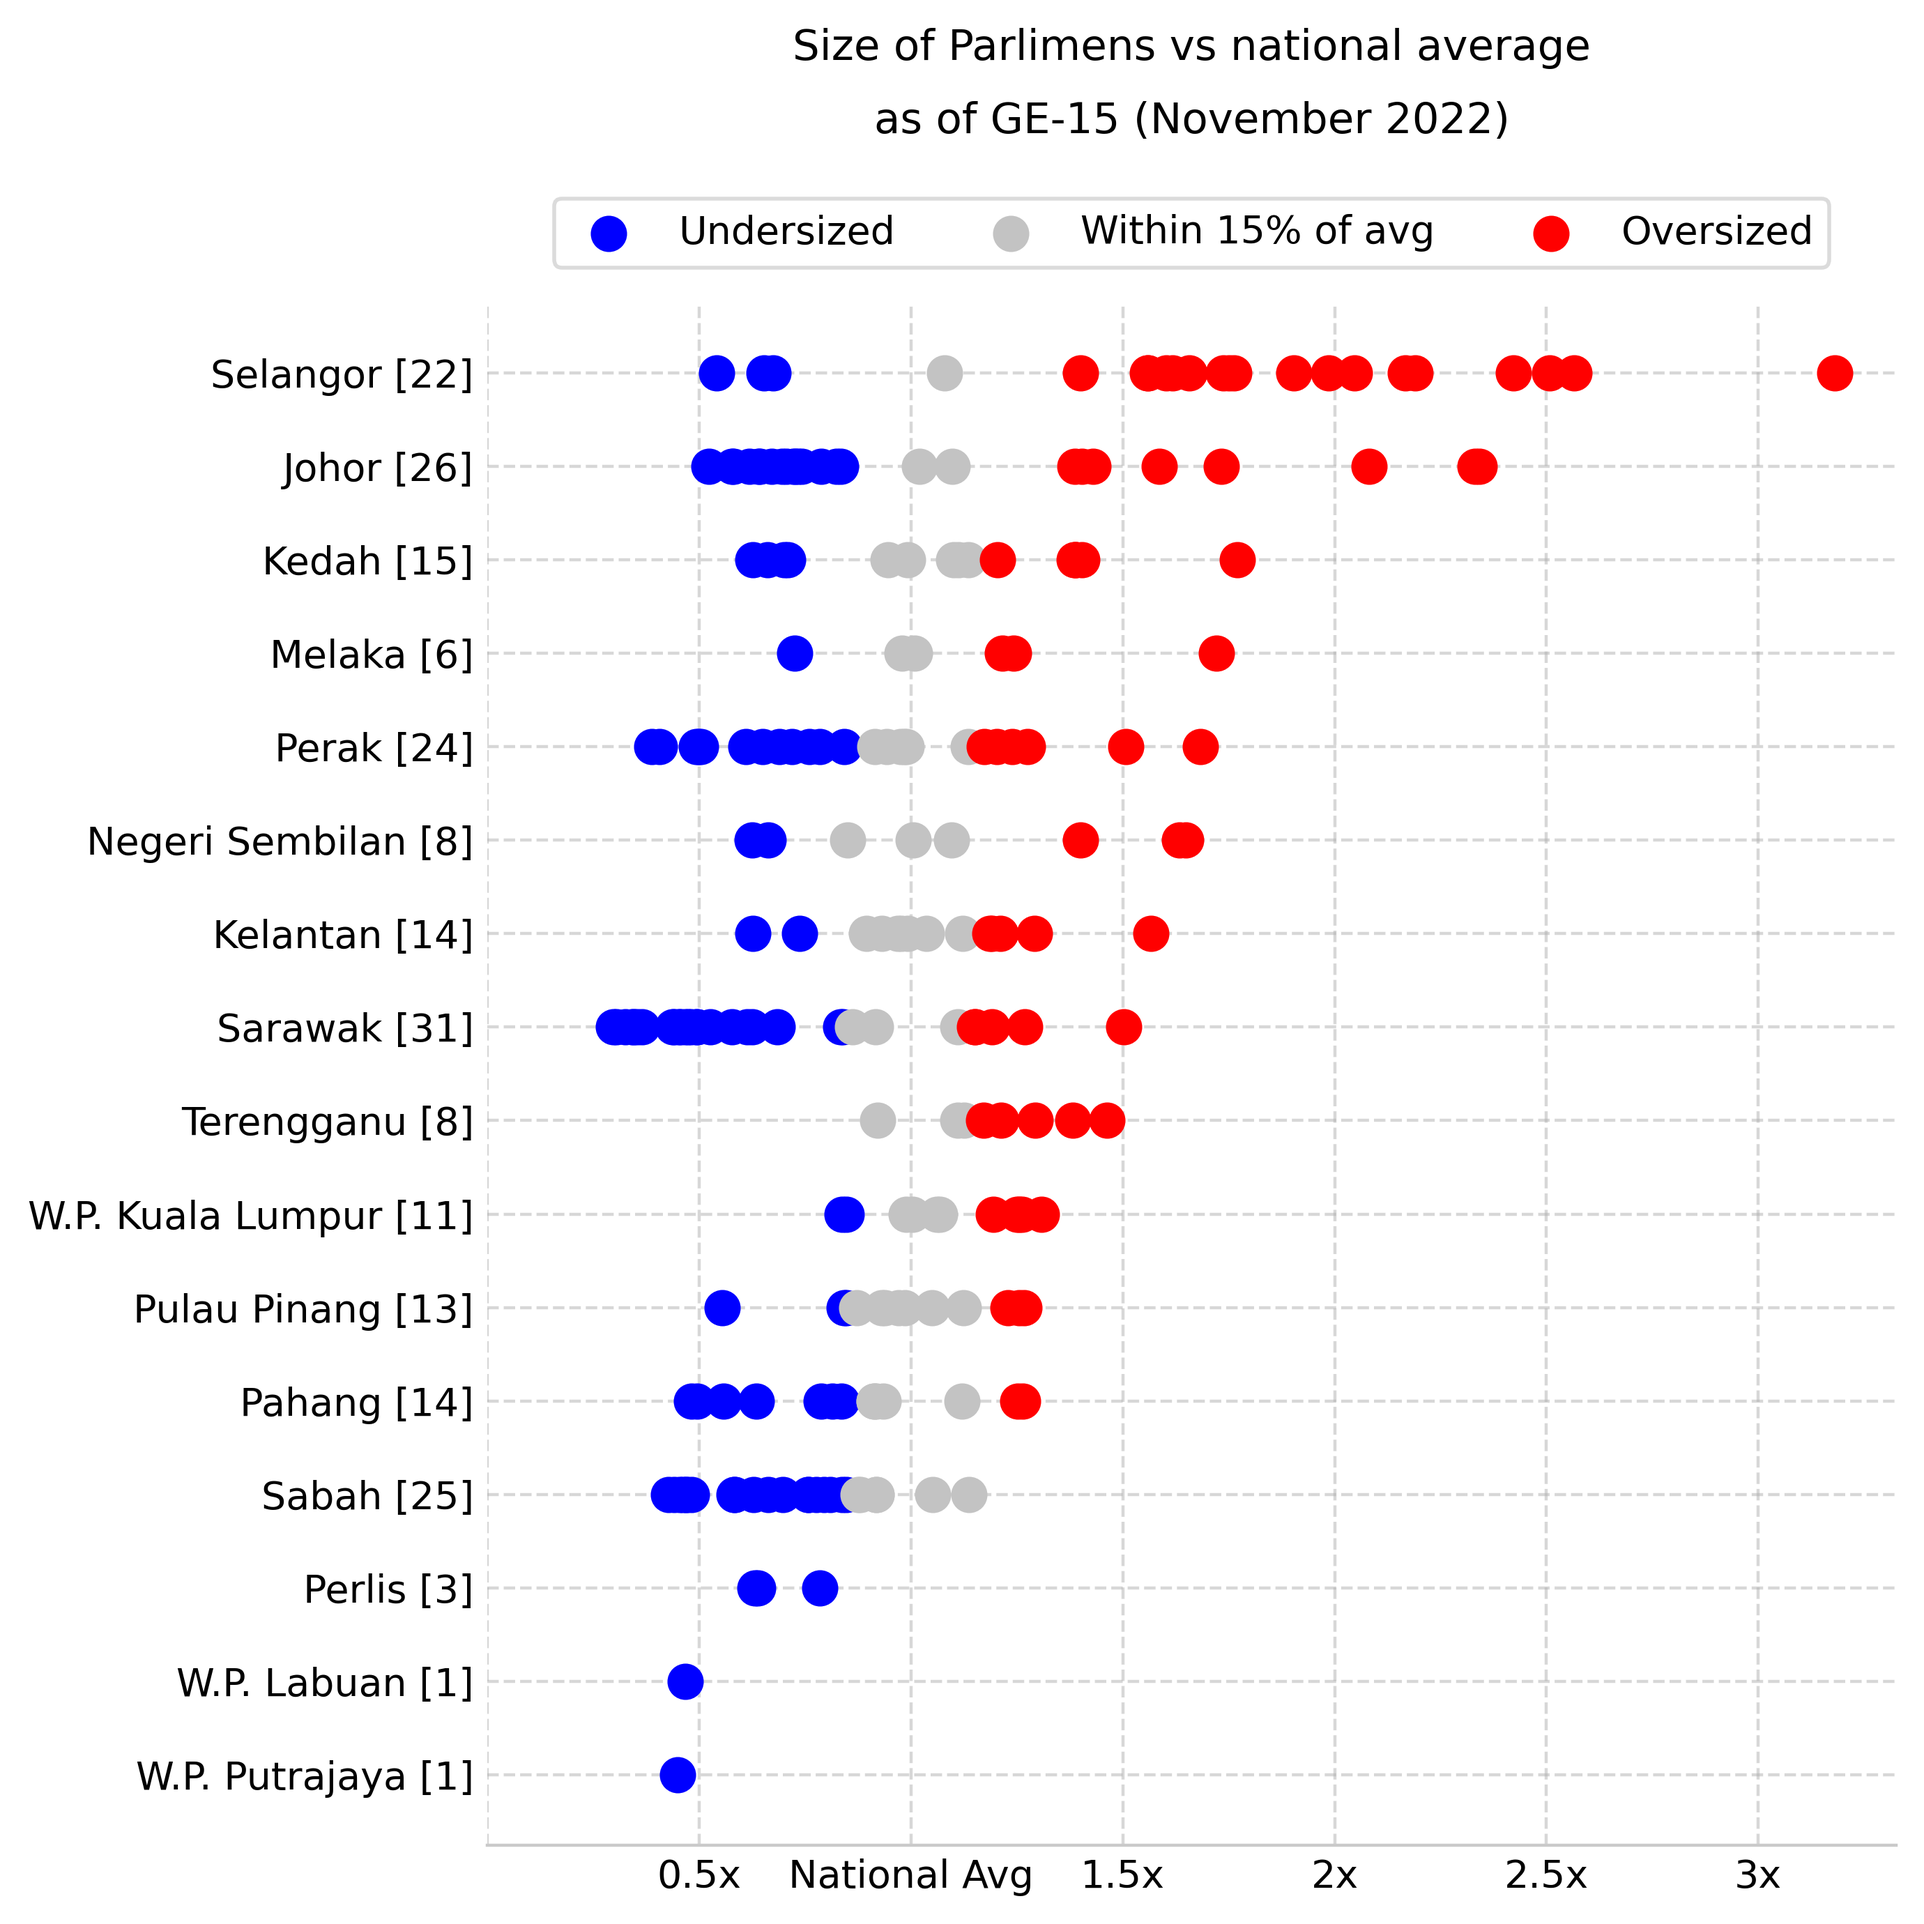
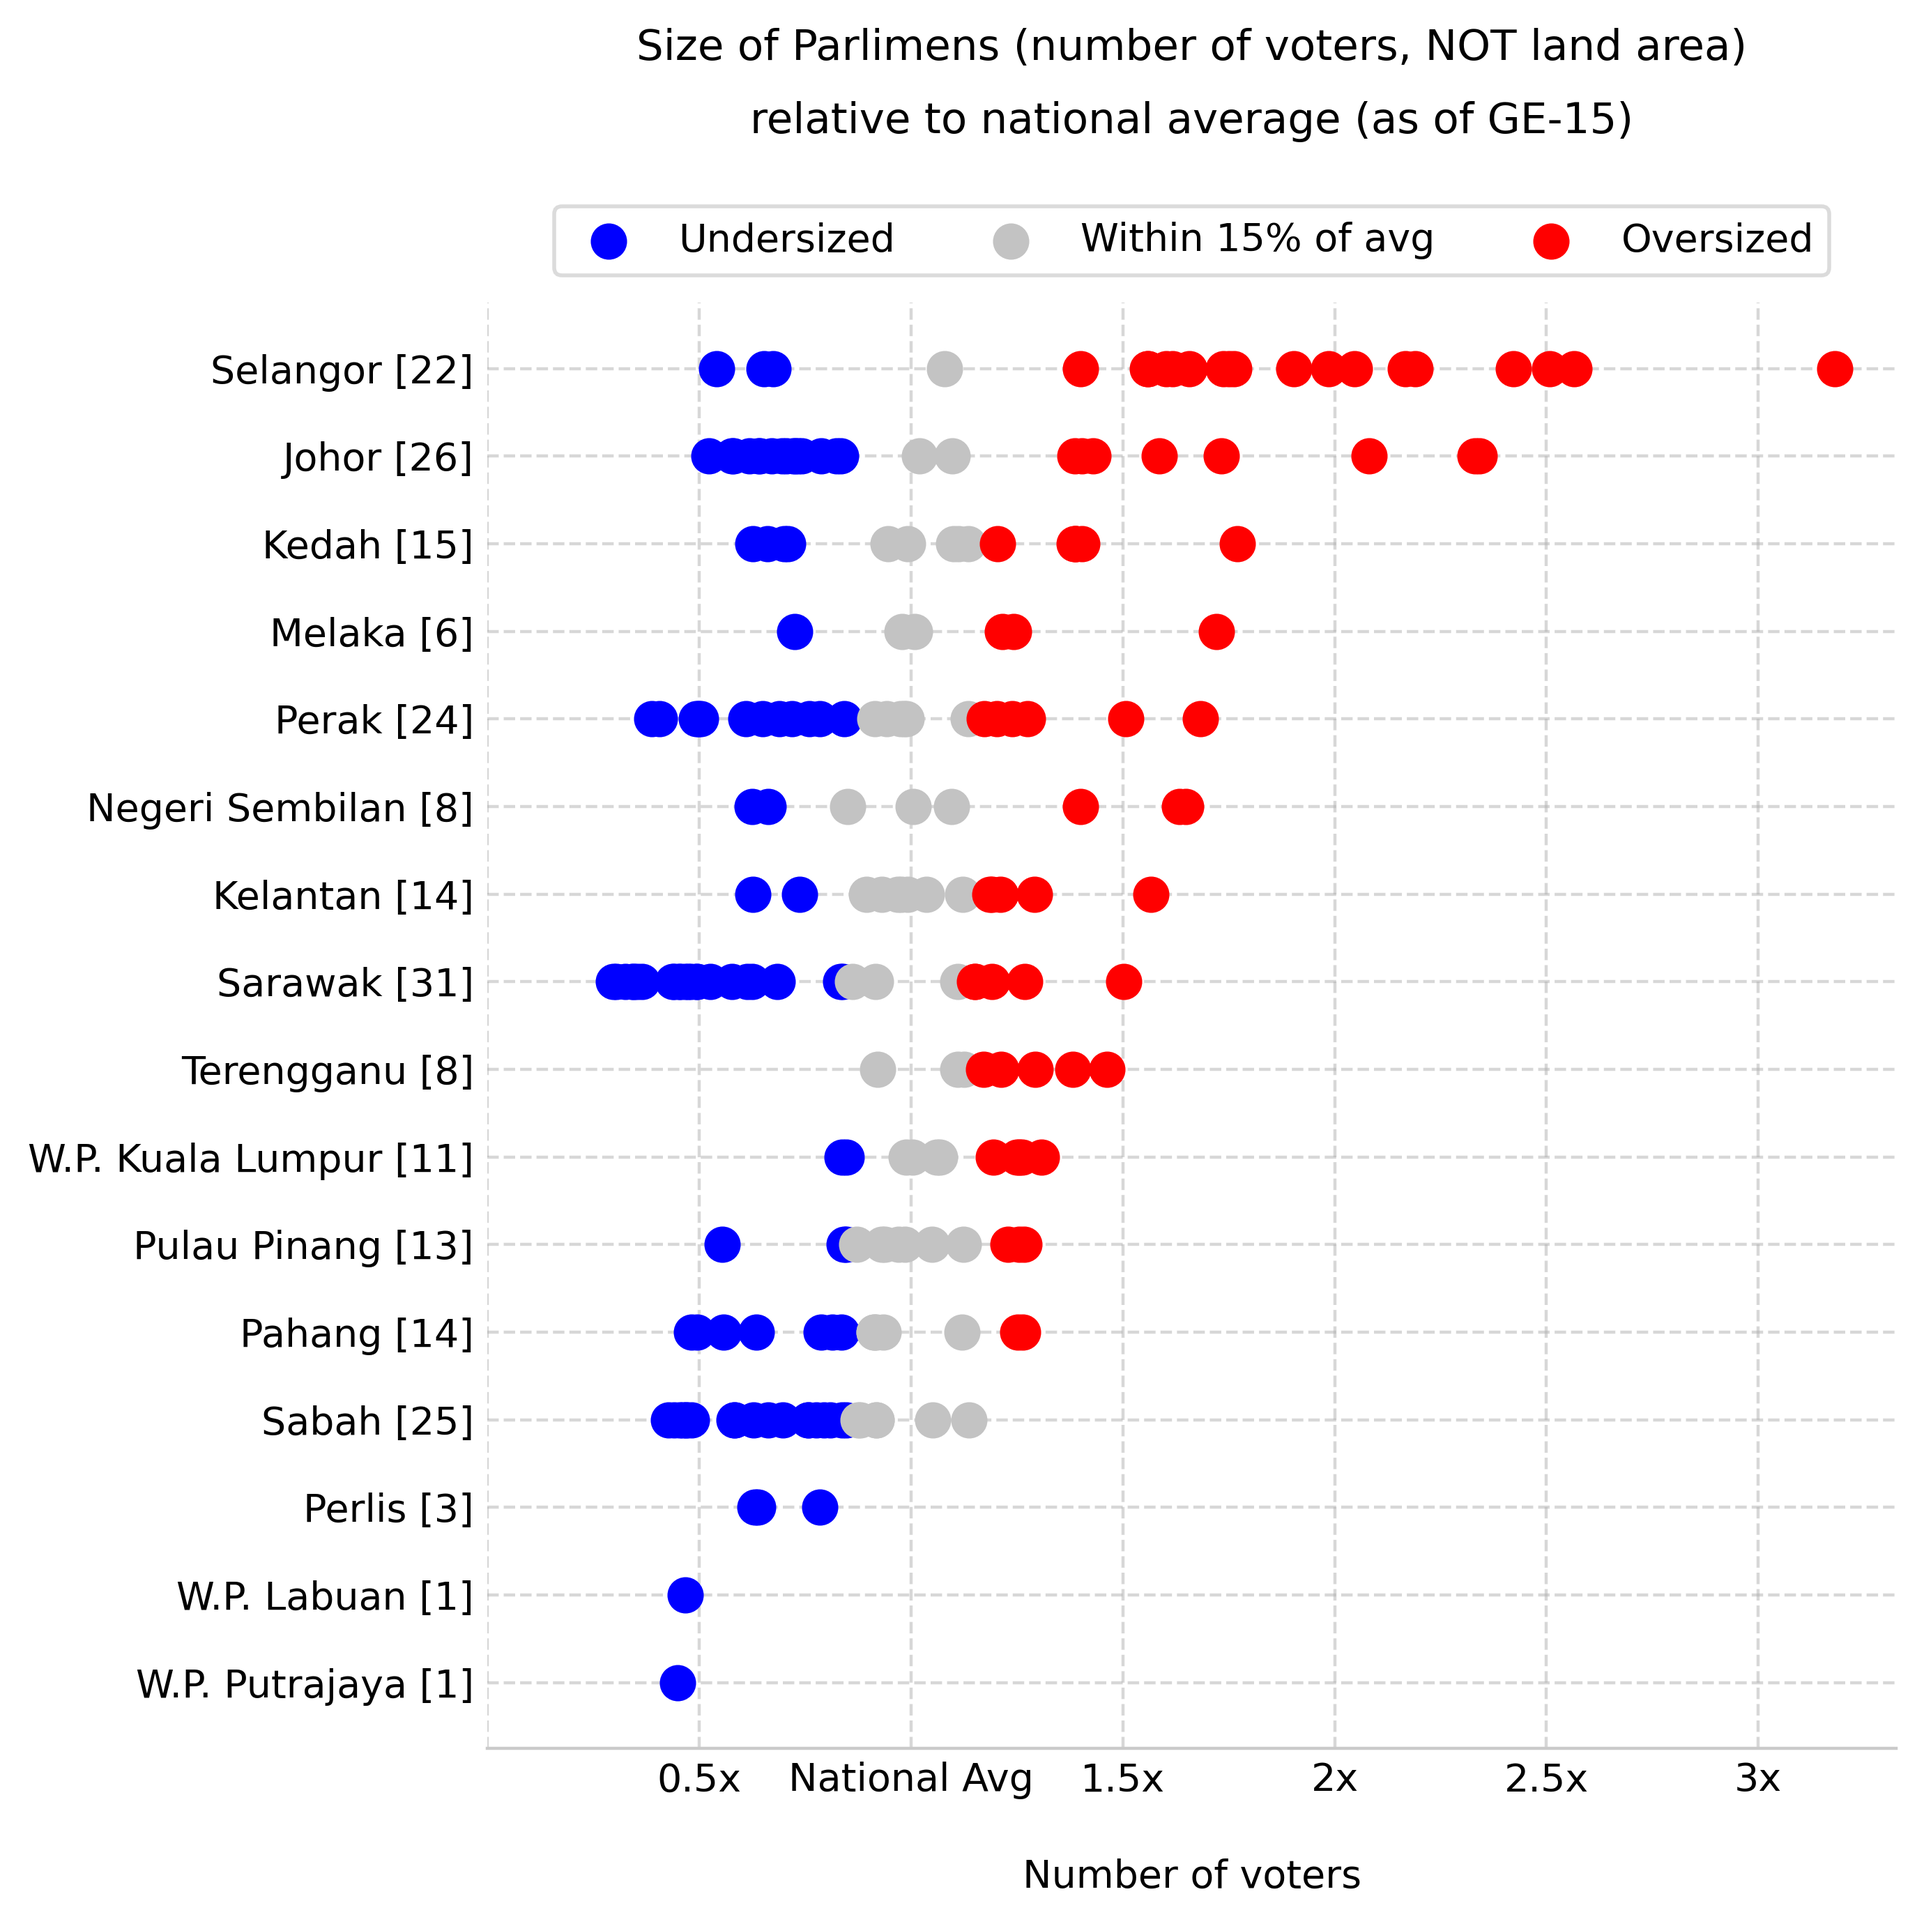
Improve readability

diff --git a/2025-07-07_swk_dun/script.py b/2025-07-07_swk_dun/script.py
@@ -175,7 +175,7 @@ def scatter_dun_eq():
             )
 
     # plot-wide adjustments
-    ax.set_title(f'Size of DUNs relative to state average\nas of GE-15 (November 2022)\n\n',linespacing=2,fontsize=11)
+    ax.set_title(f'Size of DUNs (number of voters, NOT land area)\nrelative to state average (as of GE-15)\n\n',linespacing=2,fontsize=11)
     for b in ['top','right','left']: ax.spines[b].set_visible(False)
     for b in ['bottom','left']: ax.spines[b].set_color('#cacaca')
     ax.set_axisbelow(True)
@@ -186,7 +186,7 @@ def scatter_dun_eq():
     ax.set_ylabel('')
 
     # x-axis adjustments
-    ax.set_xlabel('')
+    ax.set_xlabel('\nNumber of voters')
     ax.set_xlim(20)
     ax.get_xaxis().set_visible(True)
     plt.xticks(rotation=0)
@@ -251,7 +251,7 @@ def scatter_parlimen_eq():
             )
 
     # plot-wide adjustments
-    ax.set_title(f'Size of Parlimens vs national average\nas of GE-15 (November 2022)\n\n',linespacing=2,fontsize=11)
+    ax.set_title(f'Size of Parlimens (number of voters, NOT land area)\nrelative to national average (as of GE-15)\n\n',linespacing=2,fontsize=11)
     for b in ['top','right','left']: ax.spines[b].set_visible(False)
     for b in ['bottom','left']: ax.spines[b].set_color('#cacaca')
     ax.set_axisbelow(True)
@@ -262,7 +262,7 @@ def scatter_parlimen_eq():
     ax.set_ylabel('')
 
     # x-axis adjustments
-    ax.set_xlabel('')
+    ax.set_xlabel('\nNumber of voters')
     ax.set_xlim(0)
     ax.get_xaxis().set_visible(True)
     plt.xticks(rotation=0)
@@ -281,5 +281,5 @@ if __name__ == '__main__':
     # bar_dun_distribution()
     # bar_dun_size(V='maxmin')
     # bar_dun_size(V='avg')
-    # scatter_dun_eq()
+    scatter_dun_eq()
     scatter_parlimen_eq()
